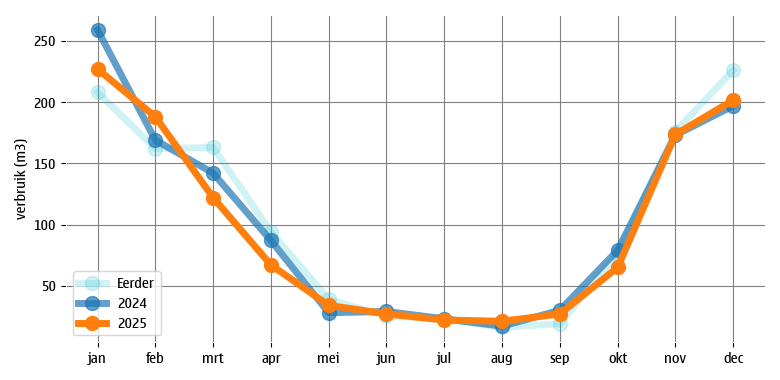
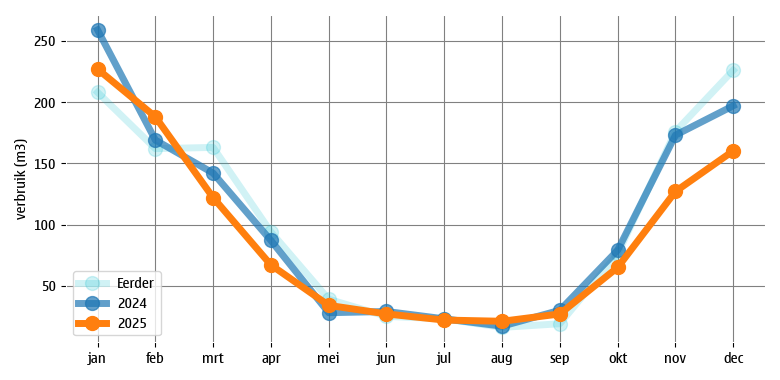
feat: Tot en met 6.12.2025

Changed region(s): [[0.7692, 0.2316, 0.9538, 0.6947], [0.8923, 0.3763, 0.9538, 0.4632]]

diff --git a/energieverbruik.py b/energieverbruik.py
@@ -43,12 +43,12 @@ VORIG_JAAR = HUIDIG_JAAR - 1
 #
 # INVOEREN GEGEVENS HUIDIGE JAAR
 #
-MAAND = Month.OKT
-DAG_VAN_MAAND = 31
+MAAND = Month.DEC
+DAG_VAN_MAAND = 6
 DAGEN_IN_MAAND = MAAND.days
-VERBRUIK_GAS = 65
-VERBRUIK_ELEKTRICITEIT = 114
-VERBRUIK_WATER = 10.4
+VERBRUIK_GAS = 31
+VERBRUIK_ELEKTRICITEIT = 24
+VERBRUIK_WATER = 1.9
 PRIJS_GAS = 1.20840
 PRIJS_ELEKTRICITEIT = 0.28926
 PRIJS_WATER = 1.021
@@ -202,7 +202,7 @@ if MAAND == Month.JAN:
 else:
     GAS_MNDN_N_JR = 0
     ELE_MNDN_N_JR = 0
-    WAWAT_MNDN_N_JR = 0
+    WAT_MNDN_N_JR = 0
     PERC_GAS_HDG_JR = 0
     PERC_ELE_HDG_JR = 0
     PERC_WAT_HDG_JR = 0
@@ -217,11 +217,11 @@ else:
         PERC_ELE_HDG_JR += schatVerbrEle_HDG_JR[i]/df['vrbr_ele_VrgJr'][i]
         schatVerbrWat_HDG_JR[i] = df['vrbr_wat_HdgJr'][i]
         SUM_SCHAT_WAT += schatVerbrWat_HDG_JR[i]
-        WAWAT_MNDN_N_JR += (schatVerbrWat_HDG_JR[i] / combiVerbrWat[i])
+        WAT_MNDN_N_JR += (schatVerbrWat_HDG_JR[i] / combiVerbrWat[i])
         PERC_WAT_HDG_JR += schatVerbrWat_HDG_JR[i]/df['vrbr_wat_VrgJr'][i]
     GAS_MNDN_N_JR /= MAAND.rank
     ELE_MNDN_N_JR /= MAAND.rank
-    WAWAT_MNDN_N_JR /= MAAND.rank
+    WAT_MNDN_N_JR /= MAAND.rank
     PERC_GAS_HDG_JR = PERC_GAS_HDG_JR / MAAND.rank
     PERC_ELE_HDG_JR = PERC_ELE_HDG_JR / MAAND.rank
     PERC_WAT_HDG_JR = PERC_WAT_HDG_JR / MAAND.rank
@@ -235,16 +235,16 @@ else:
                                      * combiVerbrWat[i]).round(2)
         else:
             schatVerbrGas_HDG_JR[i] = ((((((
-                (VERBR_GASMnd / combiVerbrGas[MAAND.rank]) + (2 * GAS_MNDN_N_JR)) / 3)
+                (VERBR_GASMnd / combiVerbrGas[MAAND.rank]) + GAS_MNDN_N_JR) / 2)
                     * combiVerbrGas[i]) + vastGasMnd)
                     + (df['vrbr_gas_VrgJr'][i] * PERC_GAS_HDG_JR)) / 2).round(2)
             schatVerbrEle_HDG_JR[i] = ((((((
                 (VERBR_ELEMnd / combiVerbrEle[MAAND.rank]) + PERC_ELE_HDG_JR)
-                    + (2 * ELE_MNDN_N_JR))/3) * combiVerbrEle[i])
-                    + (df['vrbr_ele_VrgJr'][i] * PERC_ELE_HDG_JR))/2).round(2)
+                    + ELE_MNDN_N_JR)/2) * combiVerbrEle[i])
+                    + (df['vrbr_ele_VrgJr'][i] * PERC_ELE_HDG_JR)) / 2).round(2)
             schatVerbrWat_HDG_JR[i] = ((((((
                 (VERBR_WATMnd / combiVerbrWat[MAAND.rank]) + PERC_WAT_HDG_JR)
-                    + (2 * WAWAT_MNDN_N_JR))/3)* combiVerbrWat[i])
+                    + WAT_MNDN_N_JR)/2)* combiVerbrWat[i])
                     + (df['vrbr_wat_VrgJr'][i] * PERC_WAT_HDG_JR)) / 2).round(2)
         SUM_SCHAT_GAS += schatVerbrGas_HDG_JR[i]
         SUM_SCHAT_ELE += schatVerbrEle_HDG_JR[i]
